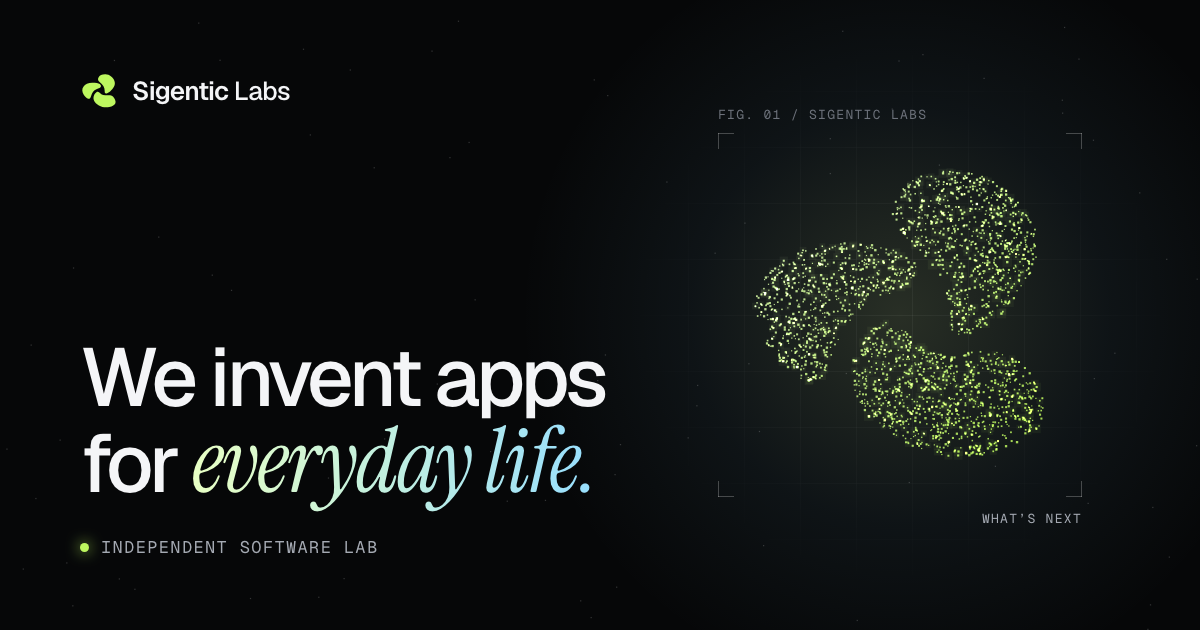
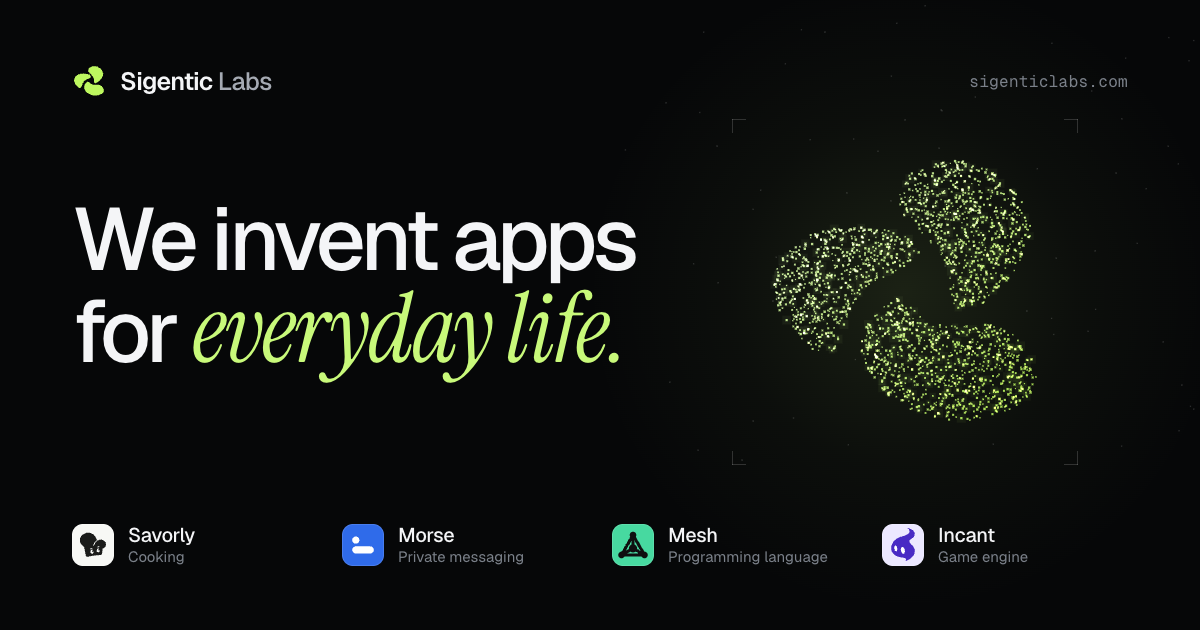
New OG image, image alt text, and filled-in legal details
- og.png re-rendered from tools/og.html to match the redesigned site.
- og:image:alt and twitter:image:alt on every page.
- Terms: New York law, courts in Kings County, New York; no "[State]" LLC line.
- Privacy and terms: the placeholder mailing-address sentence is removed.

diff --git a/terms.html b/terms.html
@@ -16,6 +16,7 @@
   <meta property="og:site_name" content="Sigentic Labs">
   <meta property="og:title" content="Terms of Use — Sigentic Labs">
   <meta property="og:image" content="https://sigenticlabs.com/assets/img/og.png">
+  <meta property="og:image:alt" content="Sigentic Labs: We invent apps for everyday life. Savorly, Morse, Mesh and Incant.">
   <meta name="twitter:card" content="summary_large_image">
   <link rel="preconnect" href="https://fonts.googleapis.com">
   <link rel="preconnect" href="https://fonts.gstatic.com" crossorigin>
@@ -63,7 +64,7 @@
     <h1 class="doc__title">Terms of <em>Use</em></h1>
     <p class="doc__meta mono">Effective October 20, 2026</p>
 
-    <p class="doc__lede">These terms govern your use of the websites run by Sigentic Labs LLC, a [State] limited liability company (&ldquo;Sigentic Labs,&rdquo; &ldquo;we,&rdquo; &ldquo;us&rdquo;). By using them, you agree to these terms.</p>
+    <p class="doc__lede">These terms govern your use of the websites run by Sigentic Labs LLC (&ldquo;Sigentic Labs,&rdquo; &ldquo;we,&rdquo; &ldquo;us&rdquo;). By using them, you agree to these terms.</p>
 
     <p class="doc__note"><strong>Products have their own terms.</strong> Savorly is governed by the <a href="https://savorly.cooking/terms">Savorly terms</a>. Our open-source code is covered by each repository&rsquo;s license. Where a product&rsquo;s own terms conflict with these, the product&rsquo;s terms apply to that product.</p>
 
@@ -116,11 +117,11 @@
     <p>To the fullest extent the law allows, Sigentic Labs isn&rsquo;t liable for indirect, incidental, special, consequential or punitive damages, or for lost data, profits or revenue, arising from your use of our websites or pre-release software. Our total liability for any claim relating to them is limited to US $50.</p>
 
     <h2 id="law">9. Governing law</h2>
-    <p>These terms are governed by the laws of the State of [State], without regard to its conflict-of-laws rules. Disputes will be resolved in the state or federal courts located in [County, State], unless the law requires otherwise.</p>
+    <p>These terms are governed by the laws of the State of New York, without regard to its conflict-of-laws rules. Disputes will be resolved in the state or federal courts located in Kings County, New York, unless the law requires otherwise.</p>
 
     <h2 id="changes">10. Changes &amp; contact</h2>
     <p>We may update these terms, and we&rsquo;ll change the effective date above when we do. Continuing to use our websites after a change means you accept it.</p>
-    <p>Questions? Email <a href="mailto:hello@sigenticlabs.com?subject=Terms%20question">hello@sigenticlabs.com</a> or write to Sigentic Labs LLC, [Mailing address], [City, State ZIP], United States.</p>
+    <p>Questions? Email <a href="mailto:hello@sigenticlabs.com?subject=Terms%20question">hello@sigenticlabs.com</a>.</p>
   </main>
 
   <footer class="footer footer--slim">

diff --git a/index.html b/index.html
@@ -8,7 +8,6 @@
   <meta name="theme-color" content="#060708">
   <meta name="color-scheme" content="dark">
 
-  <!-- Replace sigenticlabs.com with your real domain (find & replace across the project). -->
   <link rel="canonical" href="https://sigenticlabs.com/">
   <link rel="icon" href="assets/img/favicon.svg" type="image/svg+xml">
   <link rel="icon" href="assets/img/favicon-32.png" sizes="32x32" type="image/png">
@@ -21,12 +20,14 @@
   <meta property="og:description" content="An independent software lab. We make Savorly, Morse, Mesh and Incant.">
   <meta property="og:url" content="https://sigenticlabs.com/">
   <meta property="og:image" content="https://sigenticlabs.com/assets/img/og.png">
+  <meta property="og:image:alt" content="Sigentic Labs: We invent apps for everyday life. Savorly, Morse, Mesh and Incant.">
   <meta property="og:image:width" content="1200">
   <meta property="og:image:height" content="630">
   <meta name="twitter:card" content="summary_large_image">
   <meta name="twitter:title" content="Sigentic Labs — We invent apps for everyday life">
   <meta name="twitter:description" content="An independent software lab. We make Savorly, Morse, Mesh and Incant.">
   <meta name="twitter:image" content="https://sigenticlabs.com/assets/img/og.png">
+  <meta name="twitter:image:alt" content="Sigentic Labs: We invent apps for everyday life. Savorly, Morse, Mesh and Incant.">
 
   <link rel="preconnect" href="https://fonts.googleapis.com">
   <link rel="preconnect" href="https://fonts.gstatic.com" crossorigin>

diff --git a/privacy.html b/privacy.html
@@ -16,6 +16,7 @@
   <meta property="og:site_name" content="Sigentic Labs">
   <meta property="og:title" content="Privacy Policy — Sigentic Labs">
   <meta property="og:image" content="https://sigenticlabs.com/assets/img/og.png">
+  <meta property="og:image:alt" content="Sigentic Labs: We invent apps for everyday life. Savorly, Morse, Mesh and Incant.">
   <meta name="twitter:card" content="summary_large_image">
   <link rel="preconnect" href="https://fonts.googleapis.com">
   <link rel="preconnect" href="https://fonts.gstatic.com" crossorigin>
@@ -137,7 +138,7 @@
 
     <h2 id="changes">10. Changes &amp; contact</h2>
     <p>If we change this policy, we&rsquo;ll update the effective date above, and for significant changes we&rsquo;ll give notice on this site.</p>
-    <p>Questions? Email <a href="mailto:hello@sigenticlabs.com?subject=Privacy%20question">hello@sigenticlabs.com</a> or write to Sigentic Labs LLC, [Mailing address], [City, State ZIP], United States.</p>
+    <p>Questions? Email <a href="mailto:hello@sigenticlabs.com?subject=Privacy%20question">hello@sigenticlabs.com</a>.</p>
   </main>
 
   <footer class="footer footer--slim">

diff --git a/security.html b/security.html
@@ -16,6 +16,7 @@
   <meta property="og:site_name" content="Sigentic Labs">
   <meta property="og:title" content="Security — Sigentic Labs">
   <meta property="og:image" content="https://sigenticlabs.com/assets/img/og.png">
+  <meta property="og:image:alt" content="Sigentic Labs: We invent apps for everyday life. Savorly, Morse, Mesh and Incant.">
   <meta name="twitter:card" content="summary_large_image">
   <link rel="preconnect" href="https://fonts.googleapis.com">
   <link rel="preconnect" href="https://fonts.gstatic.com" crossorigin>

diff --git a/support.html b/support.html
@@ -16,6 +16,7 @@
   <meta property="og:site_name" content="Sigentic Labs">
   <meta property="og:title" content="Support — Sigentic Labs">
   <meta property="og:image" content="https://sigenticlabs.com/assets/img/og.png">
+  <meta property="og:image:alt" content="Sigentic Labs: We invent apps for everyday life. Savorly, Morse, Mesh and Incant.">
   <meta name="twitter:card" content="summary_large_image">
   <link rel="preconnect" href="https://fonts.googleapis.com">
   <link rel="preconnect" href="https://fonts.gstatic.com" crossorigin>
